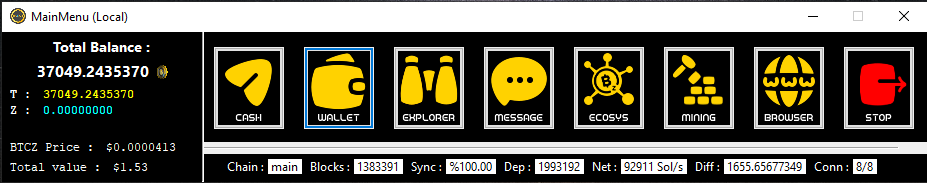
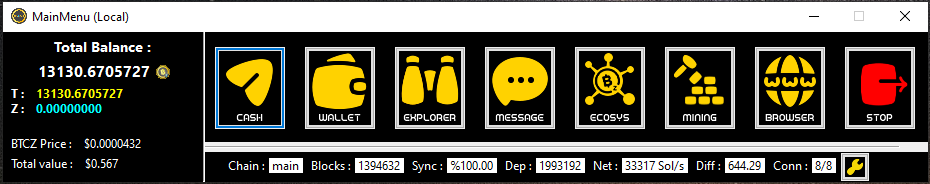
update readme

diff --git a/README.md b/README.md
@@ -12,10 +12,22 @@ Node-Z is a GUI interface designed to manage BitcoinZ nodes through RPC connecti
 
 ## Screenshots :
 - Main Wizard :
-<p align="center"><img src="https://github.com/ezzygarmyz/nodez-win/blob/main/screenshot/nodez_screenshot.png" </p>
+<p align="center"><img src="https://github.com/ezzygarmyz/nodez-win/blob/main/screenshot/main_wizard.png" </p>
 
 - Main Menu :
 <p align="center"><img src="https://github.com/ezzygarmyz/nodez-win/blob/main/screenshot/main_menu.png" </p>
+
+- Cash Out :
+<p align="center"><img src="https://github.com/ezzygarmyz/nodez-win/blob/main/screenshot/cash_out.png" </p>
+
+- Wallet Manage :
+<p align="center"><img src="https://github.com/ezzygarmyz/nodez-win/blob/main/screenshot/wallet_manage.png" </p>
+
+- Insight Explorer :
+<p align="center"><img src="https://github.com/ezzygarmyz/nodez-win/blob/main/screenshot/insight_explorer.png" </p>
+
+- Mining Tools :
+<p align="center"><img src="https://github.com/ezzygarmyz/nodez-win/blob/main/screenshot/mining_tools.png" </p>
 
 ## Getting Started :
 
